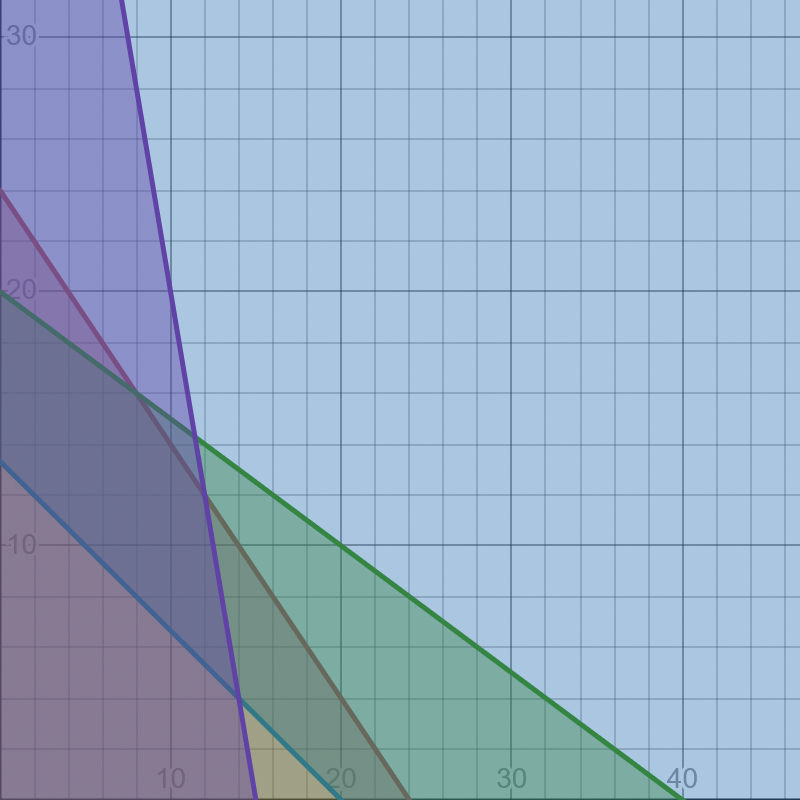
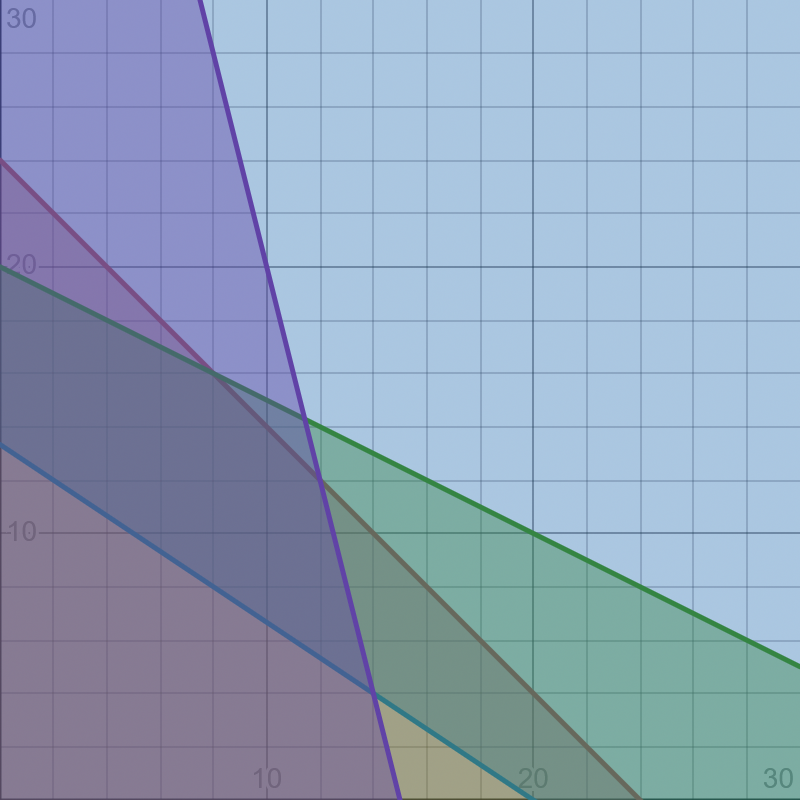
update post 137: update graphics

diff --git a/posts/137.html b/posts/137.html
@@ -50,7 +50,7 @@ Javascript is necessary for displaying LaTeX, some demos that run algorithms dir
 <p><img alt="feasible region" src=/blobs/137/feasible.png></p>
 <p>If the colors are not clear, it's the section that contains the point (4, 14). Now we have to determine which point in this area maximizes the equation $23x + 12y$.</p>
 <p>However, before figuring that out, let's go back to the simpler problem where there was only one constraint - the hours per week (and at least 0 hours in each area).</p>
-<p><img alt="feasible region for hours only" src=/blobs/137/one-constraint.png></p>
+<p><img alt="feasible region for hours only" src=/blobs/137/single.png></p>
 <p>Intuitively, we knew that it was best to spent all of our farming time on $l_x$ was the best because it gave a higher gold per hour. By looking at this feasible region, it should make sense that the optimal solution is somewhere on the lines of the inequalities otherwise we would not be utilizing all hours available. Similarly, it will never be in the middle of the line (with one exception) because being there only shifts the answer partways to a maximum or minimum.</p>
 <p>Look at the points (24, 0), (12, 12) and (0, 24). In our case, either $l_x$ or $l_y$ is better, so using (12, 12) does not make any sense when we can improve our values by either moving to fully farming $l_x$ or $l_y$. The one case where it does make sense is if $l_x$ and $l_y$ are equally rewarding, which implies that <em>any</em> point on the line gives an optimal solution; (24, 0), (1, 23), …, (24, 0). If the implicit $x \geq 0$ and $y \geq 0$ constraints didn't exist, then it could even make sense to go even further to something like (n, 24 - n) where $n$ approaches infinity.</p>
 <p>Now, going back to the original problem, with this new intuition, we now know that the optimal solution should occur at the ends of the constraint lines, barring the one special case. This is known as the
@@ -59,7 +59,7 @@ Javascript is necessary for displaying LaTeX, some demos that run algorithms dir
 <blockquote>
 <p>In mathematical optimization, the fundamental theorem of linear programming states, in a weak formulation, that the maxima and minima of a linear function over a convex polygonal region occur at the region's corners. Further, if an extreme value occurs at two corners, then it must also occur everywhere on the line segment between them.</p>
 </blockquote>
-<p><img alt="feasible region" src=/blobs/137/feasible.png></p>
+<p><img alt="feasible region with corners" src=/blobs/137/points.png></p>
 <p>Since we know that the optimal occurs and a corner, then we can look at our feasible region and test and check each point, to find a solution. What are the points? (0, 20), (8, 16), (12, 12), (14, 4), (0, 13.3).</p>
 <p>When we plug those values into the original equation $23x + 12y$, it turns out that (12, 12) gives the maximum of 420 gold, followed by (8, 16) with 376 gold, and (14, 4) with 370. The minimum is at (0, 13.3) if you accept 13.3 as a valid play time, giving approximately 160 gold while satisfying the weekly objective count.</p>
 <p>We can also plug these values into the original constraints to see which it hit: For (12, 12)</p>
@@ -72,6 +72,19 @@ Javascript is necessary for displaying LaTeX, some demos that run algorithms dir
 <div class=commit-container>
 <div class="commit-list de-emphasized">
 <span>History:</span>
+<details>
+<summary>2025-11-17 - update post 137: update graphics</summary>
+<pre class=code-block><input id=code-block-245a9f1abb473a08f4e0190140ae5bace4615c1f-1 type=checkbox><label for=code-block-245a9f1abb473a08f4e0190140ae5bace4615c1f-1></label><code><span class=hljs-meta>@@ -61,3 +61,3 @@</span> area).
+
+<span class=hljs-deletion>-![feasible region for hours only](/blobs/137/one-constraint.png)</span>
+<span class=hljs-addition>+![feasible region for hours only](/blobs/137/single.png)</span>
+</code></pre>
+<pre class=code-block><input id=code-block-245a9f1abb473a08f4e0190140ae5bace4615c1f-2 type=checkbox><label for=code-block-245a9f1abb473a08f4e0190140ae5bace4615c1f-2></label><code><span class=hljs-meta>@@ -91,3 +91,3 @@</span> barring the one special case. This is known as the
+
+<span class=hljs-deletion>-![feasible region](/blobs/137/feasible.png)</span>
+<span class=hljs-addition>+![feasible region with corners](/blobs/137/points.png)</span>
+</code></pre>
+</details>
 <details>
 <summary>2025-11-17 - update post 137: proofread</summary>
 <pre class=code-block><input id=code-block-a7fcc44d5fd90225ee221c5dc87fcd619ccc1584-1 type=checkbox><label for=code-block-a7fcc44d5fd90225ee221c5dc87fcd619ccc1584-1></label><code><span class=hljs-meta>@@ -31,3 +31,3 @@</span> constraints:

diff --git a/test/1.html b/test/1.html
@@ -213,7 +213,7 @@ ____
 </code></pre>
 <p><strong>Output:</strong></p>
 <p><a href=https://roneo.org/markdown>Semantic description</a><br>
-<a href=&#x6d;&#x61;&#x69;&#108;&#x74;&#111;&#x3a;&#x61;&#x64;&#x64;&#114;e&#115;s&#64;&#x65;&#120;&#97;&#x6d;&#112;&#x6c;&#101;&#x2e;&#99;&#111;&#x6d;>a&#100;&#100;&#x72;&#101;&#x73;&#x73;&#x40;&#x65;&#120;&#x61;&#109;p&#108;&#x65;&#x2e;&#x63;&#x6f;&#109;</a><br>
+<a href=&#109;&#97;&#105;&#x6c;&#116;&#111;:&#97;&#100;&#100;r&#x65;&#x73;&#x73;&#64;&#101;&#x78;&#97;&#x6d;&#112;&#x6c;&#x65;&#46;&#x63;&#111;&#x6d;>&#x61;&#100;&#100;&#114;&#x65;&#x73;&#x73;&#x40;&#x65;x&#97;m&#112;l&#x65;&#x2e;&#99;&#111;m</a><br>
 <a href=https://roneo.org/markdown>https://roneo.org/markdown</a> works too. Must be used for explicit links.</p>
 <h3 id=links-using-text-reference>Links using text reference</h3>
 <pre class=code-block><input id=code-block-1-11 type=checkbox><label for=code-block-1-11></label><code>[I&#x27;m a link][Reference text]

diff --git a/posts/index.html b/posts/index.html
@@ -307,7 +307,7 @@ Javascript is necessary for displaying LaTeX, some demos that run algorithms dir
 <a href=/./posts/136>dodging life bombs</a>
 </li><li><span class=de-emphasized>2025-11-16</span>
 <a href=/./posts/137>simplex method 1</a>
-<span class=de-emphasized><span class=superscript> - 1 edit</span></span>
+<span class=de-emphasized><span class=superscript> - 2 edits</span></span>
 </li></ol>
 <nav class=posts-nav_bottom>
 </nav>
